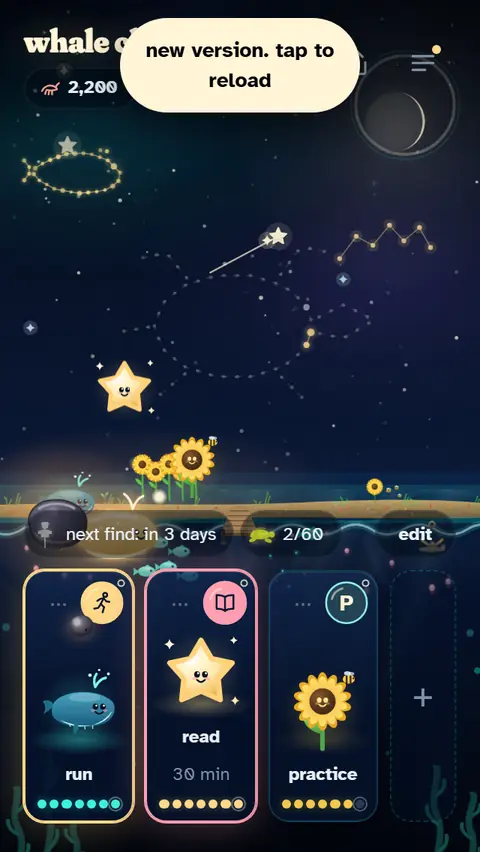
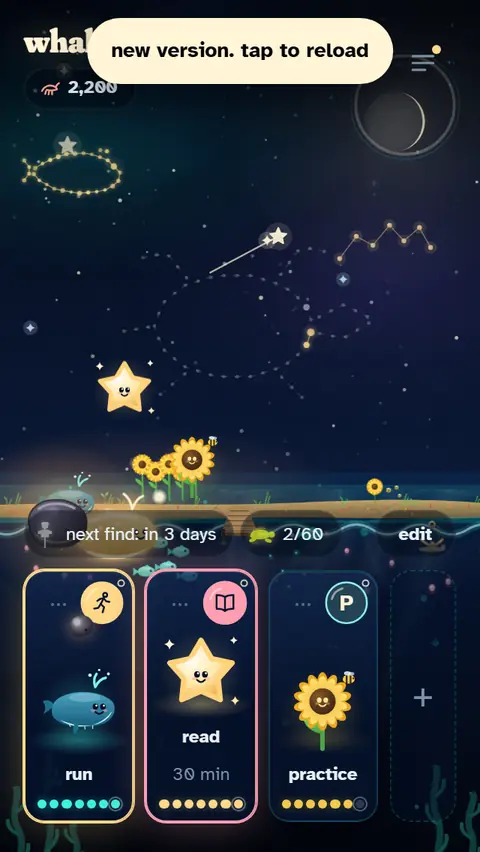
The update toast on one line, and the live site checked
Checked on the live site at 390x844: what's new opens once for a person
who had the app before, and a deploy under an open page brings the
update toast, whose tap reloads into the new version. Its words broke
onto two lines over the title: centred with left 50% and no width, it
could only be half the frame wide; it takes its own width now.

Lighthouse on the live site, median of three: mobile 76, desktop 98,
the rest 100. Measured side by side, 1.3.0 equals 1.2.4; README and
QUALITY say so. A test about the next find no longer races what's new.

diff --git a/tests/e2e/intro.e2e.ts b/tests/e2e/intro.e2e.ts
@@ -1,3 +1,4 @@
+import { NEWS_KEY, NEWS_VERSION } from '../../src/app/news'
 import { expect, test, type Page } from '@playwright/test'
 import { dateKey, seed } from './helpers'
 
@@ -186,9 +187,14 @@ test('the lab can open the app for the first time again', async ({ page }) => {
 })
 
 test('the next find is always in sight, with the Collection count', async ({ page }) => {
-  await page.addInitScript(() => {
-    localStorage.setItem('whaleclub:intro', 'seen')
-  })
+  // A person from before: the intro seen, and this version's what's new too (it is not the point here).
+  await page.addInitScript(
+    ([key, version]) => {
+      localStorage.setItem('whaleclub:intro', 'seen')
+      localStorage.setItem(key, version)
+    },
+    [NEWS_KEY, NEWS_VERSION] as const,
+  )
   await seed(page, {
     things: [{ id: 't1', name: 'run', world: 'sea', createdAt: dateKey(-2), order: 0 }],
     days: { [dateKey(-1)]: { done: ['t1'] } },

diff --git a/src/styles/sheet.css b/src/styles/sheet.css
@@ -202,6 +202,10 @@
   top: calc(var(--safe-top) + var(--s3));
   left: 50%;
   z-index: 20;
+  /* Its own width, not what is left of the frame after left: 50%, which wrapped
+     "new version. tap to reload" onto two lines over the title. */
+  width: max-content;
+  max-width: calc(100% - 2 * var(--s4));
   padding: var(--s3) var(--s4);
   border-radius: var(--r-pill);
   background: var(--star-pale);

diff --git a/README.md b/README.md
@@ -307,7 +307,7 @@ type check, the build and every test pass.
 | ----------------- | ----------------------------------------------------------------------------------------------------------------------------------------------------------------------------------------------------------------------------------------------------------------------------- |
 | **Browser tests** | 279 Playwright scenarios against the production build, each run on an iPhone 13, a Pixel 5 and a 1366x768 desktop: the first minute, a lock-in left and resumed, a phone with no network, a phone that died mid-session, a deploy taking over an open page, a backup restored |
 | **Frame timing**  | A year of lanterns (595) measured alone, after the device runs: the main thread works about 5 ms a frame, held as a test at full speed and with the CPU slowed four times; the frame gaps are recorded beside it                                                              |
-| **Lighthouse**    | On the live site, median of three runs (v0.17.0): mobile 85 performance (FCP 1.7 s, LCP 2.7 s, CLS 0), 100 accessibility, 100 best practices, 100 SEO; desktop 100 across the board. Mobile is a first visit, intro and all, on a simulated slow phone                        |
+| **Lighthouse**    | On the live site, median of three runs (v1.3.0): mobile 76 performance (FCP 1.8 s, LCP 2.7 s, CLS 0), 100 accessibility, 100 best practices, 100 SEO; desktop 98 performance and 100 for the rest. Mobile is a first visit, intro and all, on a simulated slow phone          |
 | **Accessibility** | Audited against the Web Interface Guidelines: names on every control, focus kept and returned by every sheet and the session screen, a live region for what changes, 44 px targets, reduced motion; every colour pair that carries words is tested for contrast               |
 | **Layout**        | Every surface pictured at 390 × 844 and 320 × 568 before and after the 1.3 pass ([`docs/audit`](docs/audit/README.md)); a test holds every control at 44 px to the finger and nothing past the edge, at each device's size and at 320 × 568                                   |
 | **Motion**        | Reviewed against a written standard for curves, durations, interruptibility and origin, with what changed in [`docs/QUALITY.md`](docs/QUALITY.md)                                                                                                                             |

diff --git a/docs/QUALITY.md b/docs/QUALITY.md
@@ -346,3 +346,28 @@ bottle's lift is a position, not an animation. Approved.
 | Press on the new buttons              | The shared press: down at once, back over 180 ms                       | As every other control                                                                                                                                                     |
 
 Approved.
+
+## On the live site (1.3.0)
+
+Checked on https://dovjonikas.github.io/whale-club/ at a phone's size,
+390 × 844, after the deploy:
+
+- **What's new** opens on the first open of a person who had the app
+  before, with a "try it" for each of its five cards; settings say v1.3.0.
+- **The update toast**: a page kept open while the next deploy landed
+  noticed the new worker when it came back to the front, showed "new
+  version. tap to reload", and one tap reloaded it into the new version.
+  The picture showed one more finding, fixed in the same push:
+
+| #   | Where (v1.3.0)             | What was wrong                                                                                                                                              | Why it matters                              | Fix                                                |
+| --- | -------------------------- | ----------------------------------------------------------------------------------------------------------------------------------------------------------- | ------------------------------------------- | -------------------------------------------------- |
+| 24  | `src/styles/sheet.css:200` | The update toast, placed with `left: 50%` and no width, could only be half the frame wide: "new version. tap to reload" broke onto two lines over the title | A two-line pill over the title looks broken | Its own width (`max-content`), at most the frame's |
+
+**Lighthouse**, through Edge, median of three runs: mobile performance 76
+(FCP 1.8 s, LCP 2.7 s, TBT 0.8 s, CLS 0), accessibility, best practices
+and SEO 100; desktop performance 98, the rest 100. Below 0.17's 85, so the
+two builds were measured side by side, served locally and interleaved,
+three runs each: v1.2.4 scored 74, 68 and 73, v1.3.0 scored 74, 68 and 73.
+Tonight's work costs nothing measurable; the difference since 0.17 came
+with the 1.0 to 1.2 features, and the first visit's work (the scene and the
+intro built at once) is still the place to win it back.

diff --git a/CHANGELOG.md b/CHANGELOG.md
@@ -37,6 +37,12 @@ professional pass, research into what people love in apps near this one
   picture, one line and "try it", which goes straight there. Afterwards it
   is in how it works. A first open never shows it.
 
+### Found after the deploy
+
+- The live site, checked at 390 × 844: what's new and the update toast work; the toast's words now stay on one line (it was half the frame wide and broke over the title).
+- The line for the day keeps to two rows on a 320 px phone (14 px there, 17 px from 360 px).
+- A find's case sits up under the back arrow.
+
 ### A professional pass
 
 - **One card for every notice.** The check-in, the line for the day, the

diff --git a/docs/STATE.md b/docs/STATE.md
@@ -207,6 +207,14 @@ order, records and worlds; the interface's names into voice.ts word for
 word; docs/ARCHITECTURE.md rewritten against the code. Left on purpose:
 the two `Line` names and `lineFor` (docs/DECISIONS.md).
 
+## After 1.3
+
+The mobile Lighthouse score is 76 on the live site (0.17 had 85); 1.3.0
+measured the same as 1.2.4 side by side, so the cost came with the 1.0 to
+1.2 features. The first visit builds the scene and the intro at once;
+building the intro's later beats on demand is the step to take
+(docs/QUALITY.md, "On the live site").
+
 ## After 1.0
 
 Year two in updates: finds past day 365, new constellations, more for the
